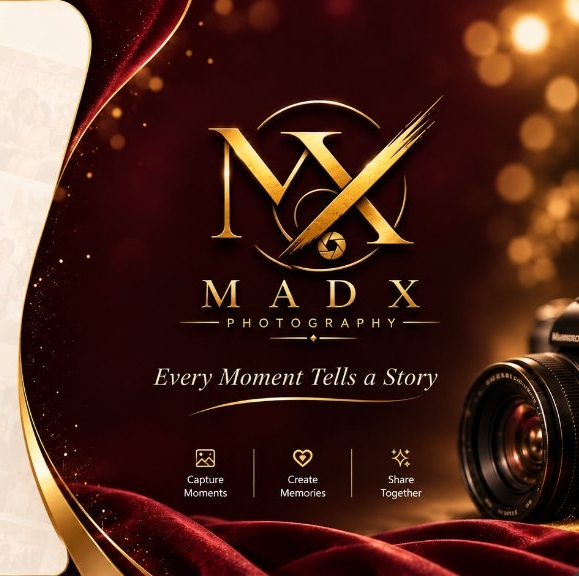
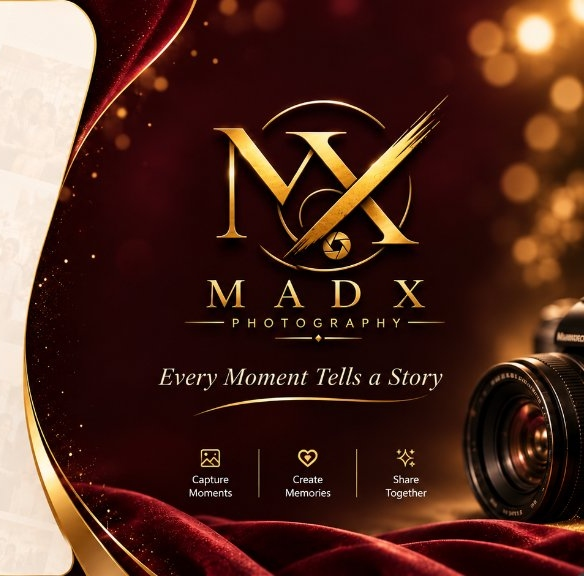
Eliminate floating card box on login, make clean 50/50 split without scrolling, and uncrop hero visual

diff --git a/frontend/src/app/login/login-form.tsx b/frontend/src/app/login/login-form.tsx
@@ -42,9 +42,9 @@ export function LoginForm() {
   }
 
   return (
-    <form onSubmit={onSubmit} className="space-y-4">
+    <form onSubmit={onSubmit} className="space-y-3">
       {error && (
-        <div className="rounded-xl border border-red-200 bg-red-50/90 p-3 text-center text-xs font-medium text-red-700">
+        <div className="rounded-xl border border-red-200 bg-red-50/90 p-2.5 text-center text-xs font-medium text-red-700">
           {error}
         </div>
       )}
@@ -53,14 +53,14 @@ export function LoginForm() {
       <div>
         <label
           htmlFor="username"
-          className="mb-1.5 flex items-center gap-1.5 text-xs font-medium text-[#2d241a] sm:text-sm"
+          className="mb-1 flex items-center gap-1.5 text-xs font-medium text-[#2d241a]"
         >
           <UserRound className="h-3.5 w-3.5 text-[#887865]" />
           <span>Username</span>
         </label>
         <div className="relative">
           <UserRound
-            className="pointer-events-none absolute left-3.5 top-1/2 h-4 w-4 -translate-y-1/2 text-[#9a8a77]"
+            className="pointer-events-none absolute left-3 top-1/2 h-3.5 w-3.5 -translate-y-1/2 text-[#9a8a77]"
             aria-hidden
           />
           <input
@@ -76,7 +76,7 @@ export function LoginForm() {
             placeholder="eg : muthu subash"
             value={username}
             onChange={(e) => setUsername(e.target.value)}
-            className="w-full rounded-2xl border border-[#ded5c8] bg-[#fdfbf7] py-2.5 pl-10 pr-4 text-sm text-[#261f17] placeholder:text-[#ab9d8c] shadow-sm transition-all focus:border-[#c59b27] focus:bg-white focus:outline-none focus:ring-2 focus:ring-[#c59b27]/25"
+            className="w-full rounded-xl border border-[#ded5c8] bg-[#fdfbf7] py-2 pl-9 pr-3 text-sm text-[#261f17] placeholder:text-[#ab9d8c] shadow-sm transition-all focus:border-[#c59b27] focus:bg-white focus:outline-none focus:ring-2 focus:ring-[#c59b27]/25"
           />
         </div>
       </div>
@@ -85,14 +85,14 @@ export function LoginForm() {
       <div>
         <label
           htmlFor="password"
-          className="mb-1.5 flex items-center gap-1.5 text-xs font-medium text-[#2d241a] sm:text-sm"
+          className="mb-1 flex items-center gap-1.5 text-xs font-medium text-[#2d241a]"
         >
           <LockKeyhole className="h-3.5 w-3.5 text-[#887865]" />
           <span>Password</span>
         </label>
         <div className="relative">
           <LockKeyhole
-            className="pointer-events-none absolute left-3.5 top-1/2 h-4 w-4 -translate-y-1/2 text-[#9a8a77]"
+            className="pointer-events-none absolute left-3 top-1/2 h-3.5 w-3.5 -translate-y-1/2 text-[#9a8a77]"
             aria-hidden
           />
           <input
@@ -106,15 +106,15 @@ export function LoginForm() {
             placeholder="••••••••"
             value={password}
             onChange={(e) => setPassword(e.target.value)}
-            className="w-full rounded-2xl border border-[#ded5c8] bg-[#fdfbf7] py-2.5 pl-10 pr-10 text-sm text-[#261f17] placeholder:text-[#ab9d8c] shadow-sm transition-all focus:border-[#c59b27] focus:bg-white focus:outline-none focus:ring-2 focus:ring-[#c59b27]/25"
+            className="w-full rounded-xl border border-[#ded5c8] bg-[#fdfbf7] py-2 pl-9 pr-9 text-sm text-[#261f17] placeholder:text-[#ab9d8c] shadow-sm transition-all focus:border-[#c59b27] focus:bg-white focus:outline-none focus:ring-2 focus:ring-[#c59b27]/25"
           />
           <button
             type="button"
             onClick={() => setShow((s) => !s)}
-            className="absolute right-2.5 top-1/2 grid h-7 w-7 -translate-y-1/2 place-items-center rounded-lg text-[#9a8a77] hover:bg-black/5"
+            className="absolute right-2 top-1/2 grid h-6 w-6 -translate-y-1/2 place-items-center rounded-lg text-[#9a8a77] hover:bg-black/5"
             aria-label={show ? "Hide password" : "Show password"}
           >
-            {show ? <EyeOff className="h-4 w-4" /> : <Eye className="h-4 w-4" />}
+            {show ? <EyeOff className="h-3.5 w-3.5" /> : <Eye className="h-3.5 w-3.5" />}
           </button>
         </div>
       </div>
@@ -123,21 +123,21 @@ export function LoginForm() {
       <button
         type="submit"
         disabled={busy}
-        className="mt-2 flex w-full items-center justify-center gap-2 rounded-2xl bg-gradient-to-r from-[#dfb75c] via-[#c69c34] to-[#a3761c] py-3 text-center text-sm font-semibold tracking-wide text-[#1c1507] shadow-[0_4px_14px_rgba(184,134,40,0.35)] transition-all hover:from-[#e5c068] hover:to-[#b08122] hover:shadow-[0_6px_20px_rgba(184,134,40,0.45)] disabled:opacity-50 active:scale-[0.99]"
+        className="mt-1.5 flex w-full items-center justify-center gap-2 rounded-xl bg-gradient-to-r from-[#dfb75c] via-[#c69c34] to-[#a3761c] py-2.5 text-center text-sm font-semibold tracking-wide text-[#1c1507] shadow-[0_3px_12px_rgba(184,134,40,0.30)] transition-all hover:from-[#e5c068] hover:to-[#b08122] hover:shadow-[0_5px_16px_rgba(184,134,40,0.40)] disabled:opacity-50 active:scale-[0.99]"
       >
         {busy ? (
           "Signing in..."
         ) : (
-          <span className="inline-flex items-center gap-1.5 font-display text-base tracking-wide">
+          <span className="inline-flex items-center gap-1.5 font-display text-sm tracking-wide sm:text-base">
             Sign in <span aria-hidden>→</span>
           </span>
         )}
       </button>
 
       {/* Security Note */}
-      <div className="pt-3 flex items-start justify-center gap-2 text-center text-[11px] text-[#8c7d6c]">
+      <div className="pt-2 flex items-start justify-center gap-2 text-center text-[11px] text-[#8c7d6c]">
         <ShieldCheck className="mt-0.5 h-3.5 w-3.5 shrink-0 text-[#b88c30]" />
-        <span className="leading-relaxed">
+        <span className="leading-tight">
           Your password is secure and encrypted.<br />
           This browser only keeps you signed in for 12 hours.
         </span>

diff --git a/frontend/src/app/login/page.tsx b/frontend/src/app/login/page.tsx
@@ -9,47 +9,47 @@ export const metadata: Metadata = {
 
 export default async function LoginPage() {
   return (
-    <div className="grid min-h-dvh bg-[#f8f4ec] lg:grid-cols-2">
-      {/* Left Column: Form Card with Brand Title */}
-      <div className="flex flex-col justify-center px-4 py-8 sm:px-10 lg:px-12 xl:px-16">
-        <div className="mx-auto w-full max-w-md rounded-3xl border border-[#e8dfd1] bg-[#faf6ee]/95 p-6 shadow-xl sm:p-10 backdrop-blur-sm">
+    <div className="grid h-dvh max-h-dvh w-full overflow-hidden bg-[#fdfbf7] lg:grid-cols-2">
+      {/* Left Half: Clean White / Ivory Half (no floating card box) */}
+      <div className="flex h-full w-full flex-col justify-center px-6 py-4 sm:px-12 lg:px-14 xl:px-16 overflow-hidden">
+        <div className="mx-auto w-full max-w-sm">
           {/* Header Branding: Medallion + MADX MOMENTS */}
-          <div className="mb-6 flex items-center gap-4 border-b border-[#e8dfd1]/80 pb-5">
+          <div className="mb-3.5 flex items-center gap-3.5 border-b border-[#e8dfd1]/80 pb-3 sm:mb-4">
             <img
               src="/login-medallion.png"
               alt="MADX Emblem"
-              className="h-12 w-12 shrink-0 rounded-full object-contain drop-shadow"
+              className="h-10 w-10 shrink-0 rounded-full object-contain drop-shadow sm:h-11 sm:w-11"
             />
-            <div className="h-9 w-px bg-[#d5cbbe]" aria-hidden />
+            <div className="h-7 w-px bg-[#d5cbbe]" aria-hidden />
             <div className="min-w-0">
-              <div className="font-display text-base font-semibold tracking-[0.2em] text-[#241d16] sm:text-lg">
+              <div className="font-display text-sm font-semibold tracking-[0.2em] text-[#241d16] sm:text-base">
                 MADX MOMENTS
               </div>
-              <div className="font-display text-[11px] italic tracking-wide text-[#7d7061] sm:text-xs">
+              <div className="font-display text-[10px] italic tracking-wide text-[#7d7061] sm:text-[11px]">
                 Capturing Moments, Creating Memories
               </div>
             </div>
           </div>
 
           {/* Heading & Subtitle */}
-          <div className="text-center">
-            <h1 className="font-display text-2xl font-semibold tracking-tight text-[#1c1610] sm:text-3xl">
+          <div>
+            <h1 className="font-display text-2xl font-semibold tracking-tight text-[#1c1610] sm:text-[26px]">
               Sign in to your studio
             </h1>
-            <p className="mt-1.5 text-xs text-[#786b5b] sm:text-sm">
+            <p className="mt-0.5 text-xs text-[#786b5b] sm:text-sm">
               Sign in with your admin username and password.
             </p>
 
             {/* Golden Diamond Divider */}
-            <div className="my-5 flex items-center justify-center gap-3">
-              <span className="h-px w-14 bg-gradient-to-r from-transparent to-[#cba34f]" aria-hidden />
+            <div className="my-2.5 flex items-center justify-center gap-3 sm:my-3">
+              <span className="h-px w-12 bg-gradient-to-r from-transparent to-[#cba34f]" aria-hidden />
               <span className="text-[10px] text-[#b88c30]" aria-hidden>◆</span>
-              <span className="h-px w-14 bg-gradient-to-l from-transparent to-[#cba34f]" aria-hidden />
+              <span className="h-px w-12 bg-gradient-to-l from-transparent to-[#cba34f]" aria-hidden />
             </div>
           </div>
 
           {/* Form */}
-          <div className="mt-4">
+          <div className="mt-2">
             <Suspense>
               <LoginForm />
             </Suspense>
@@ -57,12 +57,12 @@ export default async function LoginPage() {
         </div>
       </div>
 
-      {/* Right Column: High-Res Velvet Silk & Gold MADX Photography Hero Image */}
-      <div className="relative hidden h-full w-full overflow-hidden bg-[#180a0a] lg:block">
+      {/* Right Half: High-Res Velvet Silk & Gold MADX Photography Hero Image */}
+      <div className="relative hidden h-full w-full overflow-hidden bg-[#18080a] lg:block">
         <img
           src="/login-hero.jpg"
           alt="MADX Moments — Every Moment Tells a Story"
-          className="h-full w-full object-cover object-left"
+          className="h-full w-full object-cover object-center"
         />
       </div>
     </div>
